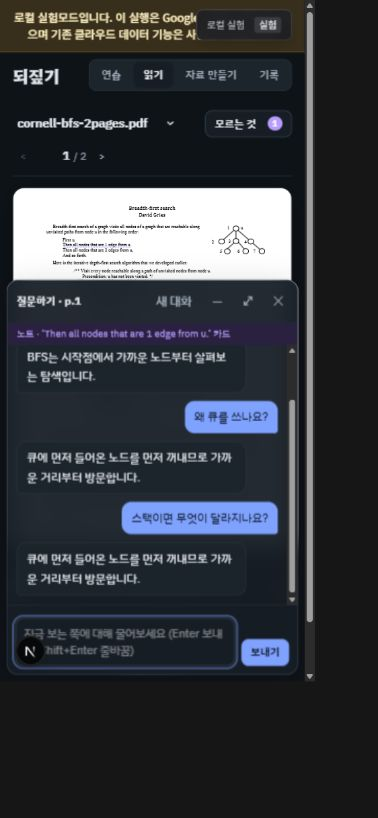
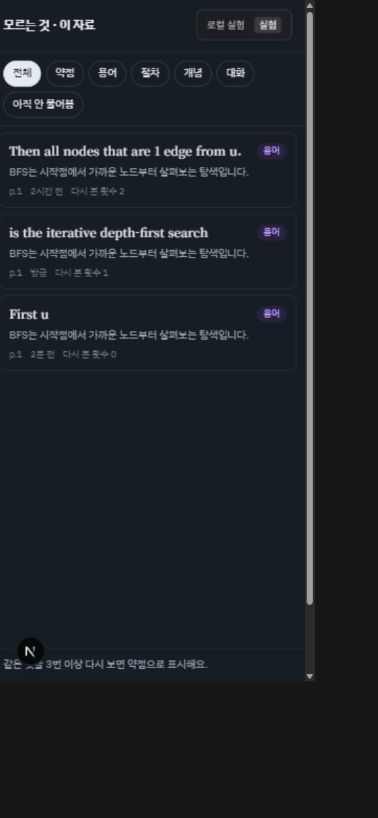
Record offline fault recovery verification and approval-gated remaining work

Changed region(s): [[0.0, 0.0, 0.8148, 0.8252], [0.8148, 0.7335, 0.8439, 0.7641]]

diff --git a/src/lib/study/notes.test.ts b/src/lib/study/notes.test.ts
@@ -97,6 +97,51 @@ test("사용량 한도는 그대로 알려서 화면이 안내하게 한다", as
   } finally { setFakeModelResponder(null); }
 });
 
+test("노트의 한도·로그인·일시 오류는 기존 표시와 대화를 보존하고 다시 물을 수 있다", async (t) => {
+  for (const code of ["usage_limit", "login_required", "transient"] as const) await t.test(code, async () => {
+    const sourceId = `src_note_fault_${code}`;
+    const marked = await markNote({ sourceId, page: 1, quote: "BFS" });
+    setFakeModelResponder(() => { throw new ModelError(code, "검증용 고장"); });
+    try {
+      await assert.rejects(askNote(caller, { sourceId, page: 1, quote: "BFS" }),
+        (error: unknown) => error instanceof ModelError && error.code === code);
+      const kept = (await listNotes(sourceId))[0];
+      assert.equal(kept.id, marked.id);
+      assert.equal(kept.status, "marked");
+      assert.equal(kept.answer, null);
+      setFakeModelResponder(() => JSON.stringify({ kind: "term", lead: "가까운 노드부터 방문하는 탐색" }));
+      const answered = await askNote(caller, { sourceId, page: 1, quote: "BFS" });
+      assert.equal(answered.note.id, marked.id);
+      assert.equal(answered.note.status, "answered");
+      setFakeModelResponder(() => { throw new ModelError(code, "검증용 고장"); });
+      await assert.rejects(followUp(caller, { sourceId, noteId: marked.id, question: "큐는 왜?" }),
+        (error: unknown) => error instanceof ModelError && error.code === code);
+      const unchanged = (await listNotes(sourceId))[0];
+      assert.deepEqual(unchanged.thread, answered.note.thread);
+      assert.deepEqual(unchanged.answer, answered.note.answer);
+      setFakeModelResponder(() => "선입선출이 방문 순서를 유지한다.");
+      const continued = await followUp(caller, { sourceId, noteId: marked.id, question: "큐는 왜?" });
+      assert.equal(continued.id, marked.id);
+      assert.equal(continued.thread.length, answered.note.thread.length + 2);
+      assert.equal((await listNotes(sourceId)).length, 1);
+    } finally { setFakeModelResponder(null); }
+  });
+});
+
+test("별도 런타임의 가짜 모델 오류도 현재 ModelError로 전달하고 알 수 없는 오류는 바꾸지 않는다", async () => {
+  const foreign = Object.assign(new Error("검증용 사용량 제한"), { name: "ModelError", code: "usage_limit" });
+  assert.equal(foreign instanceof ModelError, false);
+  setFakeModelResponder(() => { throw foreign; });
+  try {
+    await assert.rejects(askNote(caller, { sourceId: "src_foreign_fault", page: 1, quote: "BFS" }),
+      (error: unknown) => error instanceof ModelError && error.code === "usage_limit" && error.message === foreign.message);
+    const unknown = Object.assign(new Error("검증용 알 수 없는 오류"), { name: "ModelError", code: "other" });
+    setFakeModelResponder(() => { throw unknown; });
+    await assert.rejects(askNote(caller, { sourceId: "src_foreign_fault", page: 1, quote: "BFS" }),
+      (error: unknown) => error === unknown);
+  } finally { setFakeModelResponder(null); }
+});
+
 test("문구 비교와 답 읽기 규칙", () => {
   assert.equal(phraseKey(" View\n Volume "), phraseKey("view volume"));
   assert.throws(() => readAnswer({ kind: "term" }), /lead/);

diff --git a/src/lib/ai/model.ts b/src/lib/ai/model.ts
@@ -105,7 +105,17 @@ const fakeBackend: ModelBackend = {
     const responder = fakeState.__studyForgeFakeResponder;
     if (request.fakeReply !== undefined && request.provider === "fake") return { text: request.fakeReply, model: request.model ?? "fake" };
     if (!responder) throw new ModelError("not_configured", "가짜 모델 응답이 설정되지 않았어요.");
-    return { text: await responder(request), model: "fake" };
+    try { return { text: await responder(request), model: "fake" }; }
+    catch (error) {
+      // A test responder loaded before Next may use a different module instance.
+      // Translate only its explicit model errors into this backend's error class.
+      const foreign = error as { name?: string; code?: string; message?: string } | null;
+      const codes: readonly ModelErrorCode[] = ["login_required", "usage_limit", "transient", "invalid_output", "not_configured"];
+      if (!(error instanceof ModelError) && foreign?.name === "ModelError" && codes.includes(foreign.code as ModelErrorCode)) {
+        throw new ModelError(foreign.code as ModelErrorCode, typeof foreign.message === "string" ? foreign.message : "가짜 모델 호출이 실패했어요.");
+      }
+      throw error;
+    }
   },
 };
 

diff --git a/협업/검증기록_11.md b/협업/검증기록_11.md
@@ -1,7 +1,9 @@
 # 검증기록 11
 
 승인(사용자가 채움): 실제 호출 ☐ 안 함 / ☐ 함 · 실행 최대 __번 · AI 호출 최대 __번
-진행: 1 부분 완료(실제 기록 부재) · 2 부분 완료(로컬 PDF 부재) · 3 ☐ 4 ☐ 5 ☐ 6 ☐ · 기준 커밋: `1ce11f9e` · 1단계 커밋: `39ed04e3`
+진행: 1 부분 완료(실제 기록 부재) · 2 부분 완료(로컬 PDF 부재) · 3 완료 · 4 완료 · 5 승인 대기 · 6 승인 대기 · 기준 커밋: `1ce11f9e`
+
+단계 커밋: 1 `39ed04e3` / 2 `9bd22d35` / 3 `3066885a` / 4 이 기록과 같은 커밋(Git 이력 참조)
 
 확인일: 2026-10-02. 실제 AI 호출: 0회. 승인 칸이 채워지기 전 5·6단계는 실행하지 않는다.
 
@@ -29,7 +31,7 @@
 | 흐름 | 넓은 화면 | 390px | 캡처 | 메모 |
 |---|---|---|---|---|
 | 되짚기 | 생성·연습·신고 확인 / 재생성 결과 확인 | 업로드·생성·연습·신고·재요청 후 준비됨 | `검증_11/study-wide.jpg`, `검증_11/study-390.jpg` | Windows 저장 오류 수정 후 재생성은 활동 설계·카드·출제 3회만 호출 |
-| 모르는 것 노트 | 드래그·질문·밑줄 재열기·후속 2회·질문 창·서랍 확인 | 저장된 밑줄·대화·질문 창·서랍 확인. 드래그부터 새 질문은 별도 재실행 안 함 | `검증_11/notes-wide.jpg`, `검증_11/notes-390.jpg` | 호출 장부: 최초 질문 1회·후속 2회. 재열기 호출 0. 서버 재시작 후 노트 보존 |
+| 모르는 것 노트 | 드래그·질문·밑줄 재열기·후속 2회·질문 창·서랍 확인 | 드래그·새 질문·밑줄 재열기·후속 2회·질문 창·서랍 확인 | `검증_11/notes-wide.jpg`, `검증_11/notes-390.jpg` | 두 너비 모두 최초 질문 1회·후속 2회. 재열기 호출 0. 서버 재시작 후 노트 보존. 모바일 새 질문은 4단계 마지막에 추가 확인 |
 | 실험실 | 한 단계씩·모델 변경·개념 쪽 누락 재시도·출제 확인 | 한 단계씩·모델 변경·학습 설계 형식 재시도·출제 확인 | `검증_11/lab-wide.jpg`, `검증_11/lab-390.jpg` | 실제 모델 아님. 각각 정상 6단계+실패 1회. 변경값 저장 완료 후 다음 실행 |
 
 전용 가짜 서버 `scripts/verification-11-server.mjs`: 127.0.0.1:3112, 별도 임시 데이터와 `.next-verification-11`, 외부 fetch 차단. 실제 모델 호출 0. CSS 너비 넓은 화면 1280 / 모바일 390을 DOM으로 확인했다. 브라우저 콘솔 오류 0. 캡처는 가짜 답이며 모델 품질 검증이 아니다.
@@ -39,12 +41,18 @@
 ## 4. 고장 상황
 | 상황 | 멈춤 표시 | 이어서 완료 | 호출 중복 없음 | 메모 |
 |---|---|---|---|---|
-| 사용량 한도 | | | | |
-| 로그인 만료 | | | | |
-| 연결 끊김 | | | | |
-| JSON 아닌 답 | | | | |
-| 서버 재시작 | | | | |
-| 노트 오류 안내 | | | ➖ | |
+| 사용량 한도 | ✅ paused-usage-limit | ✅ 같은 요청 재개 | ✅ 성공 Analyze 1회 | 분석 성공 1 + 실패 1 + 재개 성공 1 = 3회 |
+| 로그인 만료 | ✅ paused-login | ✅ 같은 요청 재개 | ✅ 성공 Analyze 1회 | 분석 성공 1 + 실패 1 + 재개 성공 1 = 3회 |
+| 연결 끊김 | ✅ 3회 실패 후 paused-invalid | ✅ 같은 요청 재개 | ✅ 성공 Analyze 1회 | 분석 성공 1 + 실패 3 + 재개 성공 1 = 5회 |
+| JSON 아닌 답 | ✅ 3회 형식 실패 후 paused-invalid | ✅ 같은 요청 재개 | ✅ 성공 Analyze 1회 | 분석 성공 1 + 실패 3 + 재개 성공 1 = 5회 |
+| 서버 재시작 | ✅ 별도 Node 프로세스 exit 75 후 interrupted | ✅ 새 프로세스가 저장 자료로 완료 | ✅ 성공 Analyze 1회 | 총 3회: 성공 2 + 중단 1. 중단된 호출은 재시도하며 정확히 한 번 실행을 보장한다는 뜻은 아님 |
+| 노트 오류 안내 | ✅ 한도 안내·다시 시도 / 로그인 안내·ChatGPT 연결 버튼 | ✅ 한도 주입 해제 후 화면 답 표시. 로그인 오류 후 재시도는 코드 테스트 | ✅ 밑줄 재열기 0회 | 캡처 `검증_11/note-usage-limit.jpg`, `검증_11/note-login-required.jpg`. 실제 로그인·계정 연결은 하지 않음 |
+
+4단계 엔진·노트 테스트 27/27 통과. 노트 한도·로그인·일시 오류가 기존 표시·답·대화를 보존하며 재시도 후 중복 노트를 만들지 않는다. 완료한 요청을 다시 실행해도 추가 호출 0. 화면 전체로 각 고장을 재현한 검사는 아니며, 엔진 고장 5종은 코드 실행 테스트로 확인했다.
+
+🔧 가짜 서버 bootstrap과 Next 묶음의 ModelError 클래스가 달라 한도 오류가 일반 500으로 보이는 검증 연결 문제를 고쳤다. `src/lib/ai/model.ts`의 가짜 공급자 경계에서 이름과 허용된 오류 코드가 확인된 오류만 현재 클래스로 바꾼다. 실제 공급자는 변경하지 않았다. 별도 런타임 오류 회귀 통과 후 한도·로그인 버튼을 화면에서 확인했다.
+
+최종 검사: `node --disable-warning=MODULE_TYPELESS_PACKAGE_JSON --test src/lib/study/*.test.ts scripts/study-forge-mcp-chatgpt.test.ts tools/problem-authoring-lab/*.test.ts` **85/85 통과**, 린트 **오류 0 / 기존 경고 21**, 프로덕션 빌드 **성공 / 기존 PDF worker 경고 7**, `git diff --check` 통과. 브라우저 정상 흐름 콘솔 오류 0. 주입 오류는 의도된 HTTP 오류로, 정상 흐름 결과와 구분한다. 실제 AI 호출 **0**.
 
 ## 5. 실험실 실측 (실제 호출)
 | 실행 ID | 자료·쪽 | 모델·강도 | 결과 | 전체 시간 | 호출 | 재시도(단계) | 가장 느린 단계 | 목표 수 | 쪽 ÷ 목표 | 사람이 볼 곳 |
@@ -62,6 +70,6 @@
 - 실제 실패 응답 두 개와 로컬 44쪽 PDF의 위치를 확인 중이다. 가짜 답을 실제 실패 기록으로 대신하지 않는다.
 
 ## 요약
-- 된 것: 진행 중.
-- 막힌 것: 확인 중.
-- 사람이 볼 곳: 이 기록과 단계별 결과.
+- 된 것: 09 반영, 저장소 PDF 3개 입력 실측, 넓은 화면·390px 3개 흐름, 고장 복구 5종과 노트 안내, 전체 85개 테스트·린트·빌드 통과. Windows 저장 오류 수정.
+- 막힌 것: 실제 실패 응답 2개와 로컬 44쪽 PDF 부재로 1·2단계 일부 미검증. 5·6단계는 사용자 승인 칸이 비어 있어 실행 안 함(실제 호출 0회).
+- 사람이 볼 곳: 이 기록의 1·2단계 미검증 칸과 `검증_11/` 캡처. 실제 실패 응답 두 개·PDF 위치, 실제 호출 허용 실행 수와 호출 수를 사용자에게 확인받아야 한다.
